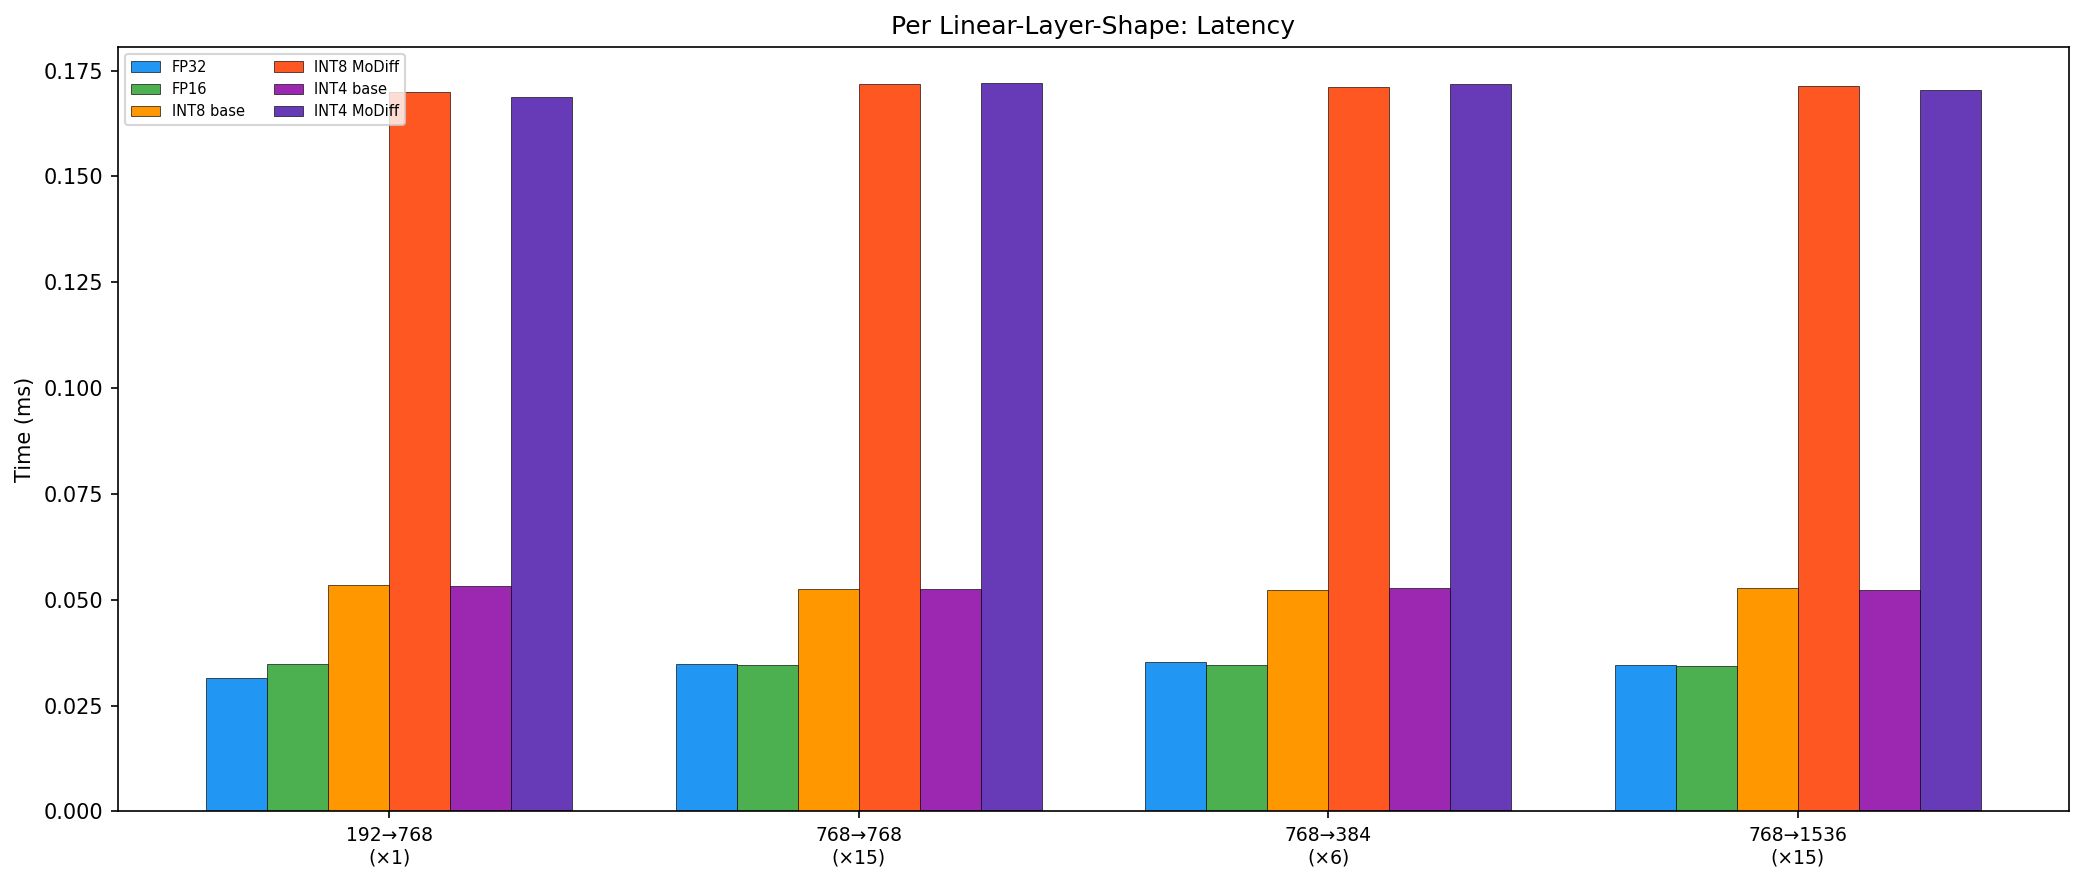
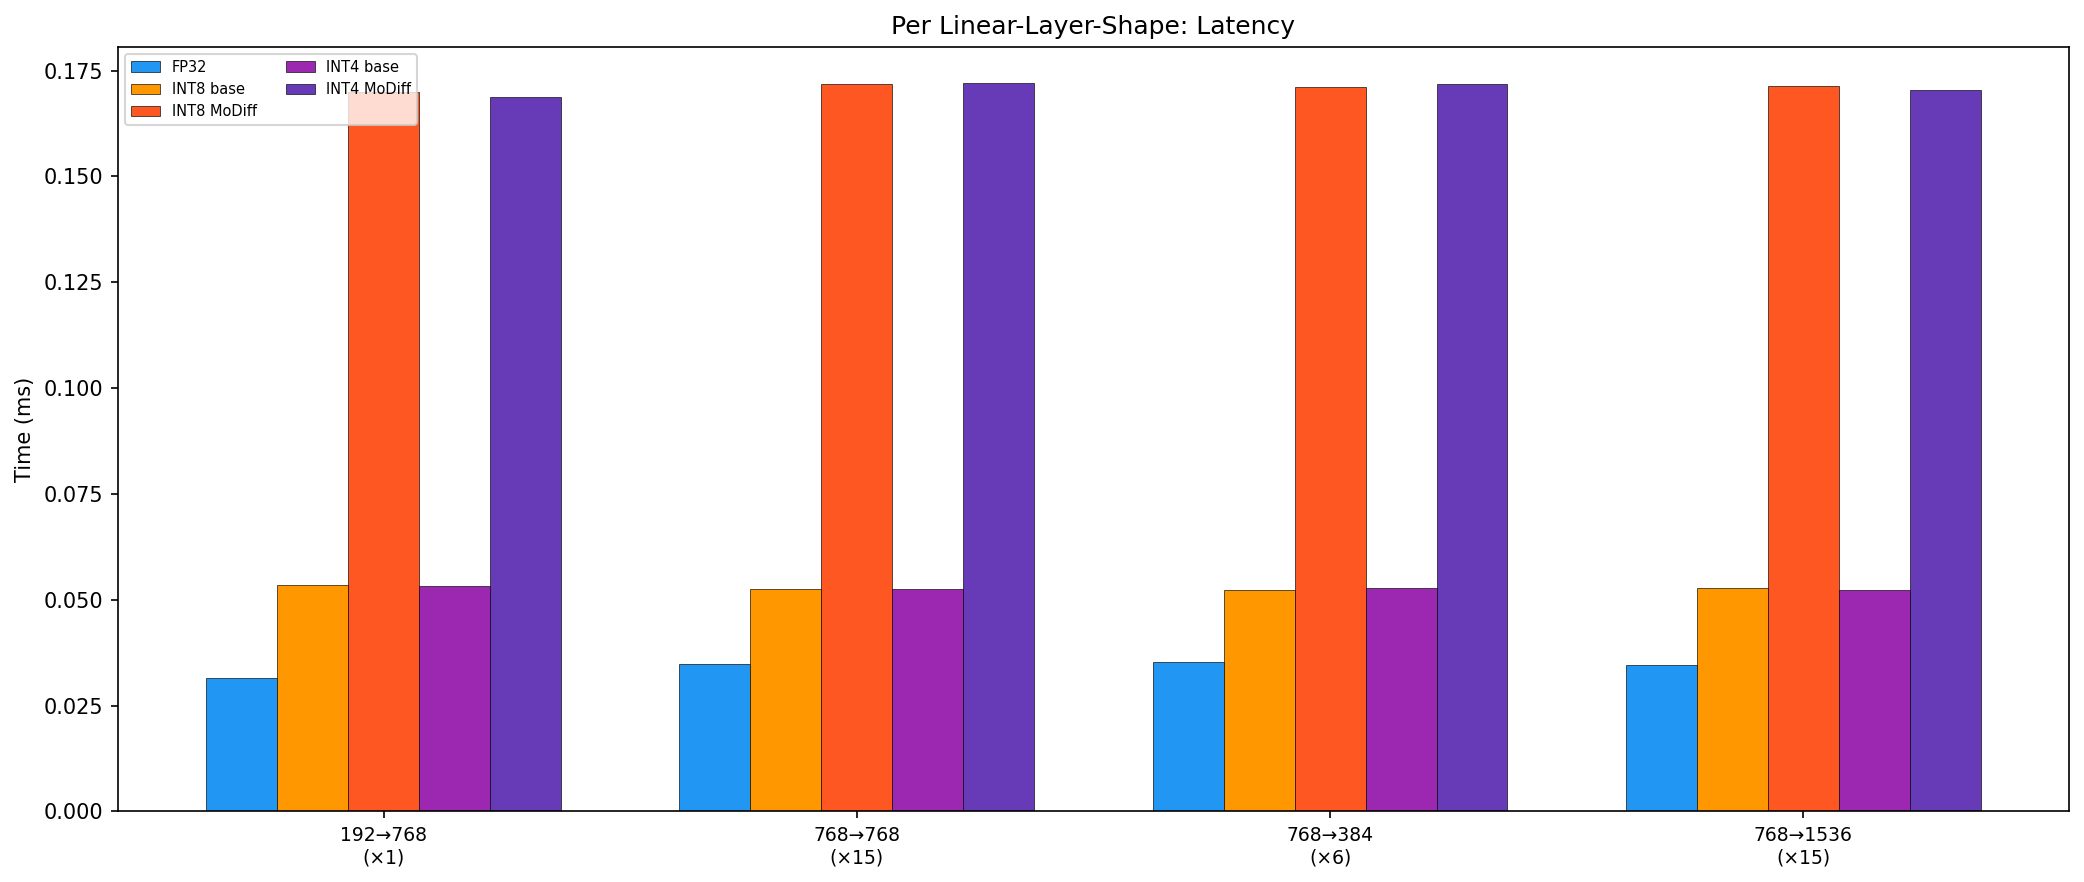
update plots

diff --git a/analysis_int4_vs_int8/generate_report.py b/analysis_int4_vs_int8/generate_report.py
@@ -49,8 +49,7 @@ def load_data():
 # ============================================================================
 def plot_exp1_pipeline(data):
     exp = data['exp1_pipeline']
-    modes = [m for m in ['fp32', 'fp16', 'int8_baseline', 'int8', 'int4_baseline', 'int4'] if m in exp]
-    C['fp16'] = '#4CAF50'
+    modes = [m for m in ['fp32', 'int8_baseline', 'int8', 'int4_baseline', 'int4'] if m in exp]
     fp32_t = exp['fp32']['time_per_sample']
 
     fig, (ax1, ax2) = plt.subplots(1, 2, figsize=(14, 5.5))
@@ -261,7 +260,6 @@ def plot_exp4_linear(data):
 
     labels = []
     fp32_t = []
-    fp16_t = []
     int8_base_t = []
     int8_mod_t = []
     int4_base_t = []
@@ -274,18 +272,16 @@ def plot_exp4_linear(data):
         count = parts[2].split('=')[1]
         labels.append(f'{inf}→{outf}\n(×{count})')
         fp32_t.append(v['fp32_ms'])
-        fp16_t.append(v['fp16_ms'])
         int8_base_t.append(v['int8_baseline_ms'])
         int8_mod_t.append(v['int8_modiff_ms'])
         int4_base_t.append(v['int4_baseline_ms'])
         int4_mod_t.append(v['int4_modiff_ms'])
 
     x = np.arange(len(labels))
-    width = 0.13
-    offsets = [-2.5, -1.5, -0.5, 0.5, 1.5, 2.5]
+    width = 0.15
+    offsets = [-2, -1, 0, 1, 2]
     all_series = [
         ('FP32', fp32_t, C['fp32']),
-        ('FP16', fp16_t, C.get('fp16', '#4CAF50')),
         ('INT8 base', int8_base_t, C['int8_baseline']),
         ('INT8 MoDiff', int8_mod_t, C['int8']),
         ('INT4 base', int4_base_t, C['int4_baseline']),
@@ -423,7 +419,7 @@ def generate_report(data):
     R.append("| Mode | Time/Sample (ms) | Time/Step (ms) | Speedup vs FP32 |")
     R.append("|------|-----------------|---------------|-----------------|")
     fp32_t = exp1['fp32']['time_per_sample']
-    for mode in [m for m in ['fp32', 'fp16', 'int8_baseline', 'int8', 'int4_baseline', 'int4'] if m in exp1]:
+    for mode in [m for m in ['fp32', 'int8_baseline', 'int8', 'int4_baseline', 'int4'] if m in exp1]:
         r = exp1[mode]
         spd = fp32_t / r['time_per_sample'] if r['time_per_sample'] > 0 else 0
         R.append(f"| {mode} | {r['time_per_sample']*1000:.1f} | {r['time_per_step_ms']:.2f} | {spd:.3f}× |")
@@ -552,14 +548,14 @@ def generate_report(data):
     bs_key = list(exp4.keys())[0]
     lin_shapes = exp4[bs_key]
 
-    R.append("| Shape (in→out) | Count | FP32 (ms) | FP16 (ms) | INT8 base (ms) | INT8 MoDiff (ms) | INT4 base (ms) | INT4 MoDiff (ms) |")
-    R.append("|---------------|-------|----------|----------|---------------|-----------------|---------------|-----------------|")
+    R.append("| Shape (in→out) | Count | FP32 (ms) | INT8 base (ms) | INT8 MoDiff (ms) | INT4 base (ms) | INT4 MoDiff (ms) |")
+    R.append("|---------------|-------|----------|---------------|-----------------|---------------|-----------------|")
     for sk, v in lin_shapes.items():
         parts = sk.split(',')
         inf = parts[0].split('=')[1]
         outf = parts[1].split('=')[1]
         count = parts[2].split('=')[1]
-        R.append(f"| {inf}→{outf} | {count} | {v['fp32_ms']:.4f} | {v['fp16_ms']:.4f} | "
+        R.append(f"| {inf}→{outf} | {count} | {v['fp32_ms']:.4f} | "
                  f"{v['int8_baseline_ms']:.4f} | {v['int8_modiff_ms']:.4f} | "
                  f"{v['int4_baseline_ms']:.4f} | {v['int4_modiff_ms']:.4f} |")
     R.append("")
@@ -567,19 +563,19 @@ def generate_report(data):
     R.append("**Key findings:**")
     R.append("")
     avg_fp32 = np.mean([v['fp32_ms'] for v in lin_shapes.values()])
-    avg_fp16 = np.mean([v['fp16_ms'] for v in lin_shapes.values()])
     avg_int8b = np.mean([v['int8_baseline_ms'] for v in lin_shapes.values()])
     avg_int4b = np.mean([v['int4_baseline_ms'] for v in lin_shapes.values()])
     avg_int8m = np.mean([v['int8_modiff_ms'] for v in lin_shapes.values()])
     avg_int4m = np.mean([v['int4_modiff_ms'] for v in lin_shapes.values()])
-    R.append(f"- FP32 avg: {avg_fp32:.4f}ms, FP16 avg: {avg_fp16:.4f}ms ({avg_fp32/avg_fp16:.2f}× speedup)")
     R.append(f"- INT8 baseline avg: {avg_int8b:.4f}ms ({avg_fp32/avg_int8b:.2f}× vs FP32)")
     R.append(f"- INT4 baseline avg: {avg_int4b:.4f}ms ({avg_fp32/avg_int4b:.2f}× vs FP32)")
     R.append(f"- INT8 MoDiff avg: {avg_int8m:.4f}ms, INT4 MoDiff avg: {avg_int4m:.4f}ms")
     R.append(f"- Linear layers use FP16 GEMM + quantization overhead, so INT8/INT4 baseline are slightly slower than FP32.")
     R.append(f"- MoDiff modulated steps add ~{(avg_int8m/avg_int8b - 1)*100:.0f}% overhead for error-compensated caching.")
     R.append("")
-    R.append("![Linear Layer Analysis](plot_04_linear_layer_analysis.png)")
+    R.append("![Linear Layer Latency](plot_04a_linear_latency.png)")
+    R.append("")
+    R.append("![Linear Layer Speedup](plot_04b_linear_speedup.png)")
     R.append("")
 
     # ==========================================================================

diff --git a/analysis_int4_vs_int8/EXPERIMENT_REPORT.md b/analysis_int4_vs_int8/EXPERIMENT_REPORT.md
@@ -15,7 +15,6 @@ Settings: 200 DDIM steps, 128 samples, batch_size=32, LSUN Churches 256×256 (re
 | Mode | Time/Sample (ms) | Time/Step (ms) | Speedup vs FP32 |
 |------|-----------------|---------------|-----------------|
 | fp32 | 613.4 | 3.07 | 1.000× |
-| fp16 | 310.2 | 1.55 | 1.978× |
 | int8_baseline | 333.0 | 1.66 | 1.842× |
 | int8 | 367.7 | 1.84 | 1.668× |
 | int4_baseline | 306.2 | 1.53 | 2.003× |
@@ -126,23 +125,24 @@ Each unique conv shape benchmarked in isolation: FP32 (cuDNN) vs INT8 (CUTLASS q
 
 Each unique linear shape benchmarked in isolation. All 37 linear layers are time-embedding projections.
 
-| Shape (in→out) | Count | FP32 (ms) | FP16 (ms) | INT8 base (ms) | INT8 MoDiff (ms) | INT4 base (ms) | INT4 MoDiff (ms) |
-|---------------|-------|----------|----------|---------------|-----------------|---------------|-----------------|
-| 192→768 | 1 | 0.0316 | 0.0347 | 0.0535 | 0.1700 | 0.0532 | 0.1687 |
-| 768→768 | 15 | 0.0347 | 0.0346 | 0.0525 | 0.1718 | 0.0525 | 0.1721 |
-| 768→384 | 6 | 0.0353 | 0.0346 | 0.0524 | 0.1711 | 0.0529 | 0.1719 |
-| 768→1536 | 15 | 0.0345 | 0.0344 | 0.0528 | 0.1713 | 0.0524 | 0.1704 |
+| Shape (in→out) | Count | FP32 (ms) | INT8 base (ms) | INT8 MoDiff (ms) | INT4 base (ms) | INT4 MoDiff (ms) |
+|---------------|-------|----------|---------------|-----------------|---------------|-----------------|
+| 192→768 | 1 | 0.0316 | 0.0535 | 0.1700 | 0.0532 | 0.1687 |
+| 768→768 | 15 | 0.0347 | 0.0525 | 0.1718 | 0.0525 | 0.1721 |
+| 768→384 | 6 | 0.0353 | 0.0524 | 0.1711 | 0.0529 | 0.1719 |
+| 768→1536 | 15 | 0.0345 | 0.0528 | 0.1713 | 0.0524 | 0.1704 |
 
 **Key findings:**
 
-- FP32 avg: 0.0340ms, FP16 avg: 0.0346ms (0.98× speedup)
 - INT8 baseline avg: 0.0528ms (0.64× vs FP32)
 - INT4 baseline avg: 0.0527ms (0.64× vs FP32)
 - INT8 MoDiff avg: 0.1710ms, INT4 MoDiff avg: 0.1708ms
 - Linear layers use FP16 GEMM + quantization overhead, so INT8/INT4 baseline are slightly slower than FP32.
 - MoDiff modulated steps add ~224% overhead for error-compensated caching.
 
-![Linear Layer Analysis](plot_04_linear_layer_analysis.png)
+![Linear Layer Latency](plot_04a_linear_latency.png)
+
+![Linear Layer Speedup](plot_04b_linear_speedup.png)
 
 ## 5. Batch Size Ablation Study
 
